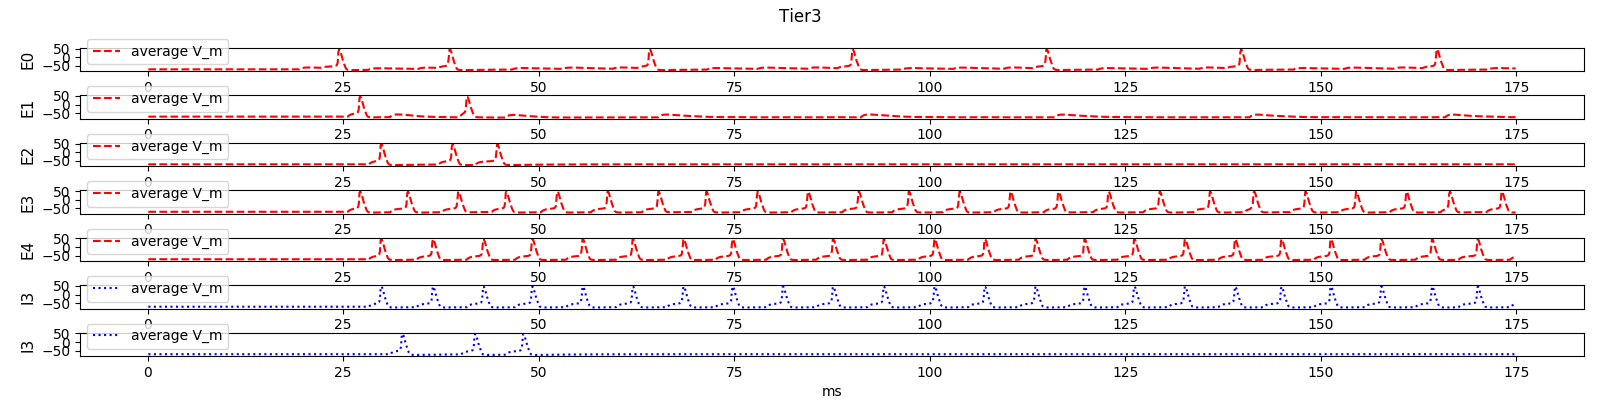
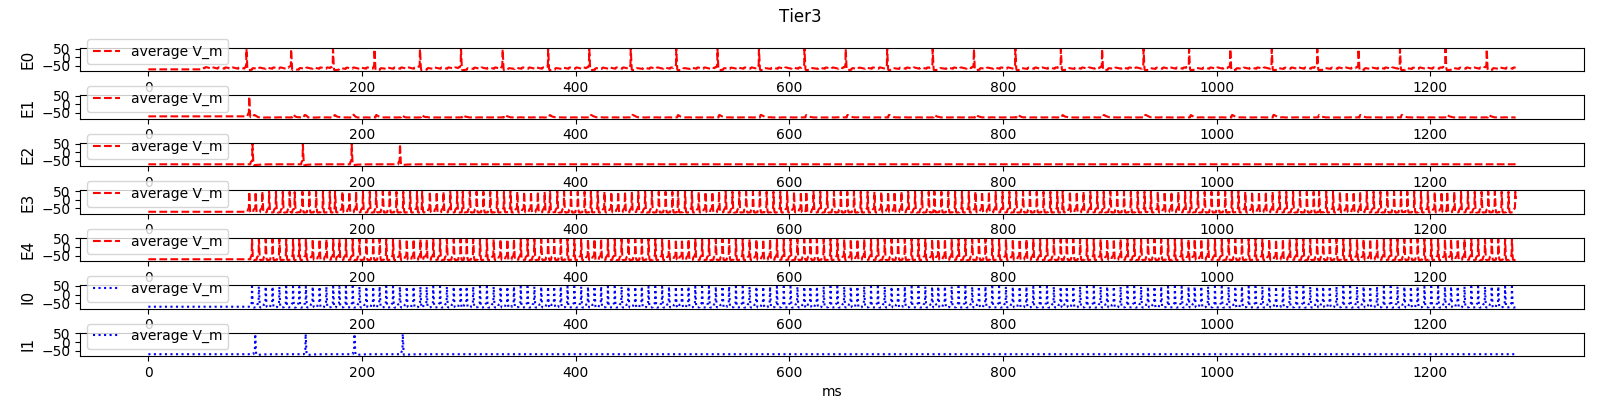
a spiking cycle of level2 with 40ms period implemented

diff --git a/spinal_cord/polysynaptic_circuit/tier.py b/spinal_cord/polysynaptic_circuit/tier.py
@@ -42,7 +42,7 @@ class Tier:
             post=self.e[1],
             syn_spec={
                 'model': 'static_synapse',
-                'delay': 1.,
+                'delay': 0.9,
                 'weight': 100.
             },
             conn_spec={
@@ -54,8 +54,8 @@ class Tier:
             post=self.e[2],
             syn_spec={
                 'model': 'static_synapse',
-                'delay': 1.,
-                'weight': 100.
+                'delay': 0.9,
+                'weight': 90.
             },
             conn_spec={
                 'rule': 'one_to_one'
@@ -66,8 +66,8 @@ class Tier:
             post=self.e[1],
             syn_spec={
                 'model': 'static_synapse',
-                'delay': 1.,
-                'weight': 100.
+                'delay': 0.9,
+                'weight': 90.
             },
             conn_spec={
                 'rule': 'one_to_one'
@@ -78,7 +78,7 @@ class Tier:
             post=self.e[4],
             syn_spec={
                 'model': 'static_synapse',
-                'delay': 1.,
+                'delay': 0.9,
                 'weight': 100.
             },
             conn_spec={
@@ -90,7 +90,7 @@ class Tier:
             post=self.e[3],
             syn_spec={
                 'model': 'static_synapse',
-                'delay': 1.,
+                'delay': 0.9,
                 'weight': 100.
             },
             conn_spec={
@@ -102,7 +102,7 @@ class Tier:
             post=self.e[3],
             syn_spec={
                 'model': 'static_synapse',
-                'delay': 1.,
+                'delay': 0.9,
                 'weight': 100.
             },
             conn_spec={
@@ -114,7 +114,7 @@ class Tier:
             post=self.i[0],
             syn_spec={
                 'model': 'static_synapse',
-                'delay': 1.,
+                'delay': 0.9,
                 'weight': 100.
             },
             conn_spec={
@@ -126,8 +126,8 @@ class Tier:
             post=self.e[1],
             syn_spec={
                 'model': 'static_synapse',
-                'delay': 1.,
-                'weight': -25.
+                'delay': 0.9,
+                'weight': -60.
             },
             conn_spec={
                 'rule': 'one_to_one'
@@ -138,8 +138,8 @@ class Tier:
             post=self.e[1],
             syn_spec={
                 'model': 'static_synapse',
-                'delay': 1.,
-                'weight': -25.
+                'delay': 0.9,
+                'weight': -50.
             },
             conn_spec={
                 'rule': 'one_to_one'
@@ -150,7 +150,7 @@ class Tier:
             post=self.i[1],
             syn_spec={
                 'model': 'static_synapse',
-                'delay': 1.,
+                'delay': 0.9,
                 'weight': 100.
             },
             conn_spec={

diff --git a/spinal_cord/ees/ees.py b/spinal_cord/ees/ees.py
@@ -44,7 +44,7 @@ class EES:
         return [0.5 + time_between_spikes * i for i in range(how_many)]
 
     def __init__(self, amplitude: float):
-        spike_times = EES.generate_spiketimes(frequency_hz=40, how_long_s=20)
+        spike_times = EES.generate_spiketimes(frequency_hz=25, how_long_s=20)
         self.amplitude = amplitude
         self.ees_id = nest.Create(
             model='spike_generator',
@@ -54,7 +54,7 @@ class EES:
             }
         )
         print('EES id is {}'.format(self.ees_id))
-        print(EES.generate_spiketimes(frequency_hz=40, how_long_s=1000))
+        print(EES.generate_spiketimes(frequency_hz=25, how_long_s=1000))
 
     def connect(self, *afferents: AfferentFiber or DummySensoryAfferentFiber) -> None:
         for afferent in afferents:

diff --git a/spinal_cord/polysynaptic_circuit/pc.py b/spinal_cord/polysynaptic_circuit/pc.py
@@ -17,7 +17,7 @@ class PolysynapticCircuit:
                 syn_spec={
                     'model': 'static_synapse',
                     'delay': 1.,
-                    'weight': 60.
+                    'weight': 40.
                 },
                 conn_spec={
                     'rule': 'one_to_one'
@@ -57,7 +57,7 @@ class PolysynapticCircuit:
                     syn_spec={
                         'model': 'static_synapse',
                         'delay': 1.,
-                        'weight': 6.
+                        'weight': 80.
                     },
                     conn_spec={
                         'rule': 'one_to_one'

diff --git a/spinal_cord/pool/pool.py b/spinal_cord/pool/pool.py
@@ -135,7 +135,7 @@ class Pool:
         syn_spec = {
            'model': 'static_synapse',
            'delay': .1,
-           'weight': 10.
+           'weight': 4.
         }
         conn_spec = {
             'rule': 'all_to_all'
@@ -227,7 +227,7 @@ class Pool:
         )
         plotter.save()
 
-    def plot_slices(self, afferent: str, time=25.):
+    def plot_slices(self, afferent: str, time=40.):
         n_slices = 7
         plotter = ResultsPlotter(7, 'Average "V_m" of Pool', 'pool_slices')
         plotter.subplot_with_slices(

diff --git a/spinal_cord/level2.py b/spinal_cord/level2.py
@@ -19,7 +19,7 @@ class Level2:
 
     def plot_pc(self):
         for tier in range(len(self.pc.tiers)):
-            plotter = ResultsPlotter(7, 'Tier{}'.format(tier), 'tier{}'.format(tier))
+            plotter = ResultsPlotter(7, 'Tier{}'.format(tier+1), 'tier{}'.format(tier+1))
             total_excitatory_groups = len(self.pc.tiers[tier].e)
             total_inhibitory_groups = len(self.pc.tiers[tier].i)
             for e in range(total_excitatory_groups):

diff --git a/spinal_cord/toolkit/plotter.py b/spinal_cord/toolkit/plotter.py
@@ -66,7 +66,7 @@ class ResultsPlotter:
         if slices > self.rows_number:
             raise ValueError('Too much subplots')
         step = .1
-        interval = 25.
+        interval = 40.
         data1 = DataMiner.get_average_voltage(first)
         number_of_dots = int(1 / step * slices * interval)
         times1 = sorted(data1.keys())[:number_of_dots]

diff --git a/spinal_cord/run.py b/spinal_cord/run.py
@@ -17,7 +17,7 @@ level1 = Level1()
 level1.connect_afferents(afferents)
 level2 = Level2(level1, afferents)
 
-nest.Simulate(175.)
+nest.Simulate(1280.)
 
 level1.plot_motogroups()
 level2.plot_pool()
